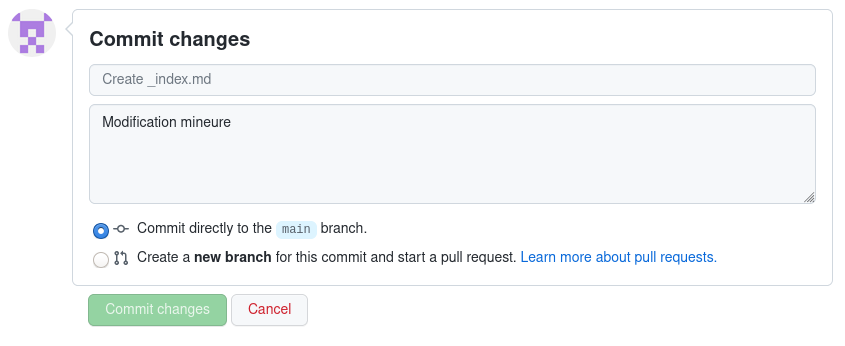
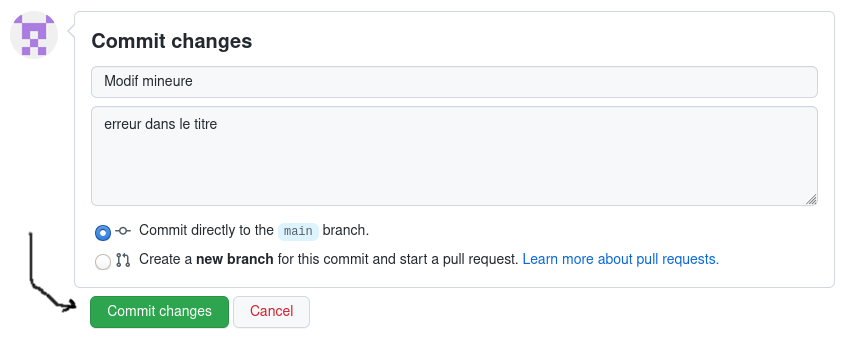
amélioration README

diff --git a/README.md b/README.md
@@ -14,15 +14,15 @@ Sources pour https://cartesjava.github.io/
 
 1. Au bas de la page à modifier, cliquer sur *Modifier cette page*
 
-    <img class="figure" src="modifier_cette_page.png" />
+    <img class="max-width:75%" src="modifier_cette_page.png" />
 
 1. Modifier le source de la page directement dans votre navigateur
 
-    <img class="figure" src="modifier01.png"/>
+    <img class="max-width:75%" src="modifier01.png"/>
 
-1. Décrire votre modification (commentaire de commit)
+1. Décrire votre modification (commentaire de commit) et cliquer sur *Commit*
 
-    <img class="figure" src="commit01.png"/>
+    <img class="max-width:75%" src="commit01.png"/>
 
 1. Une tâche automatique de GitHub va rafraîchir le site Web
     * (peut prendre quelques minutes)
